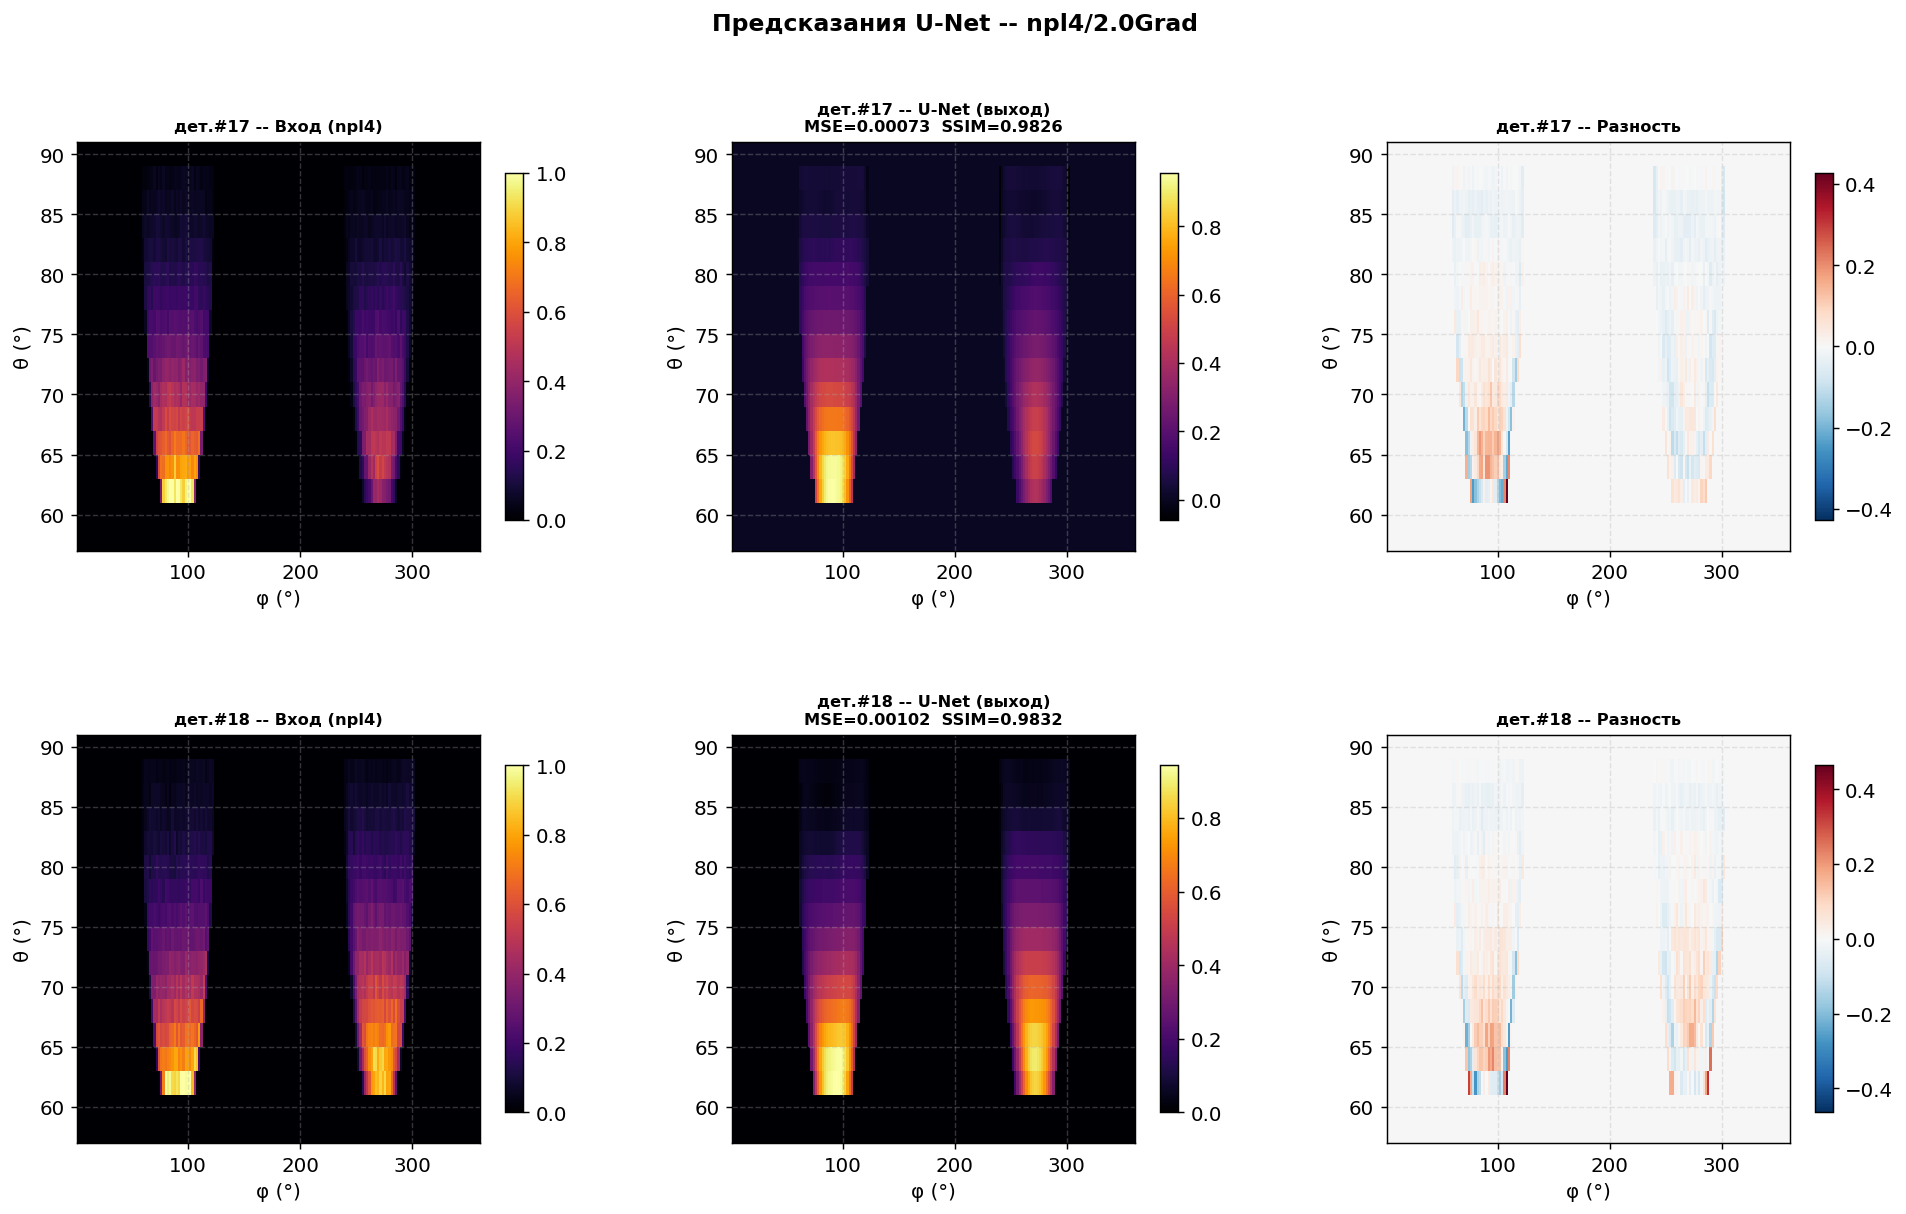
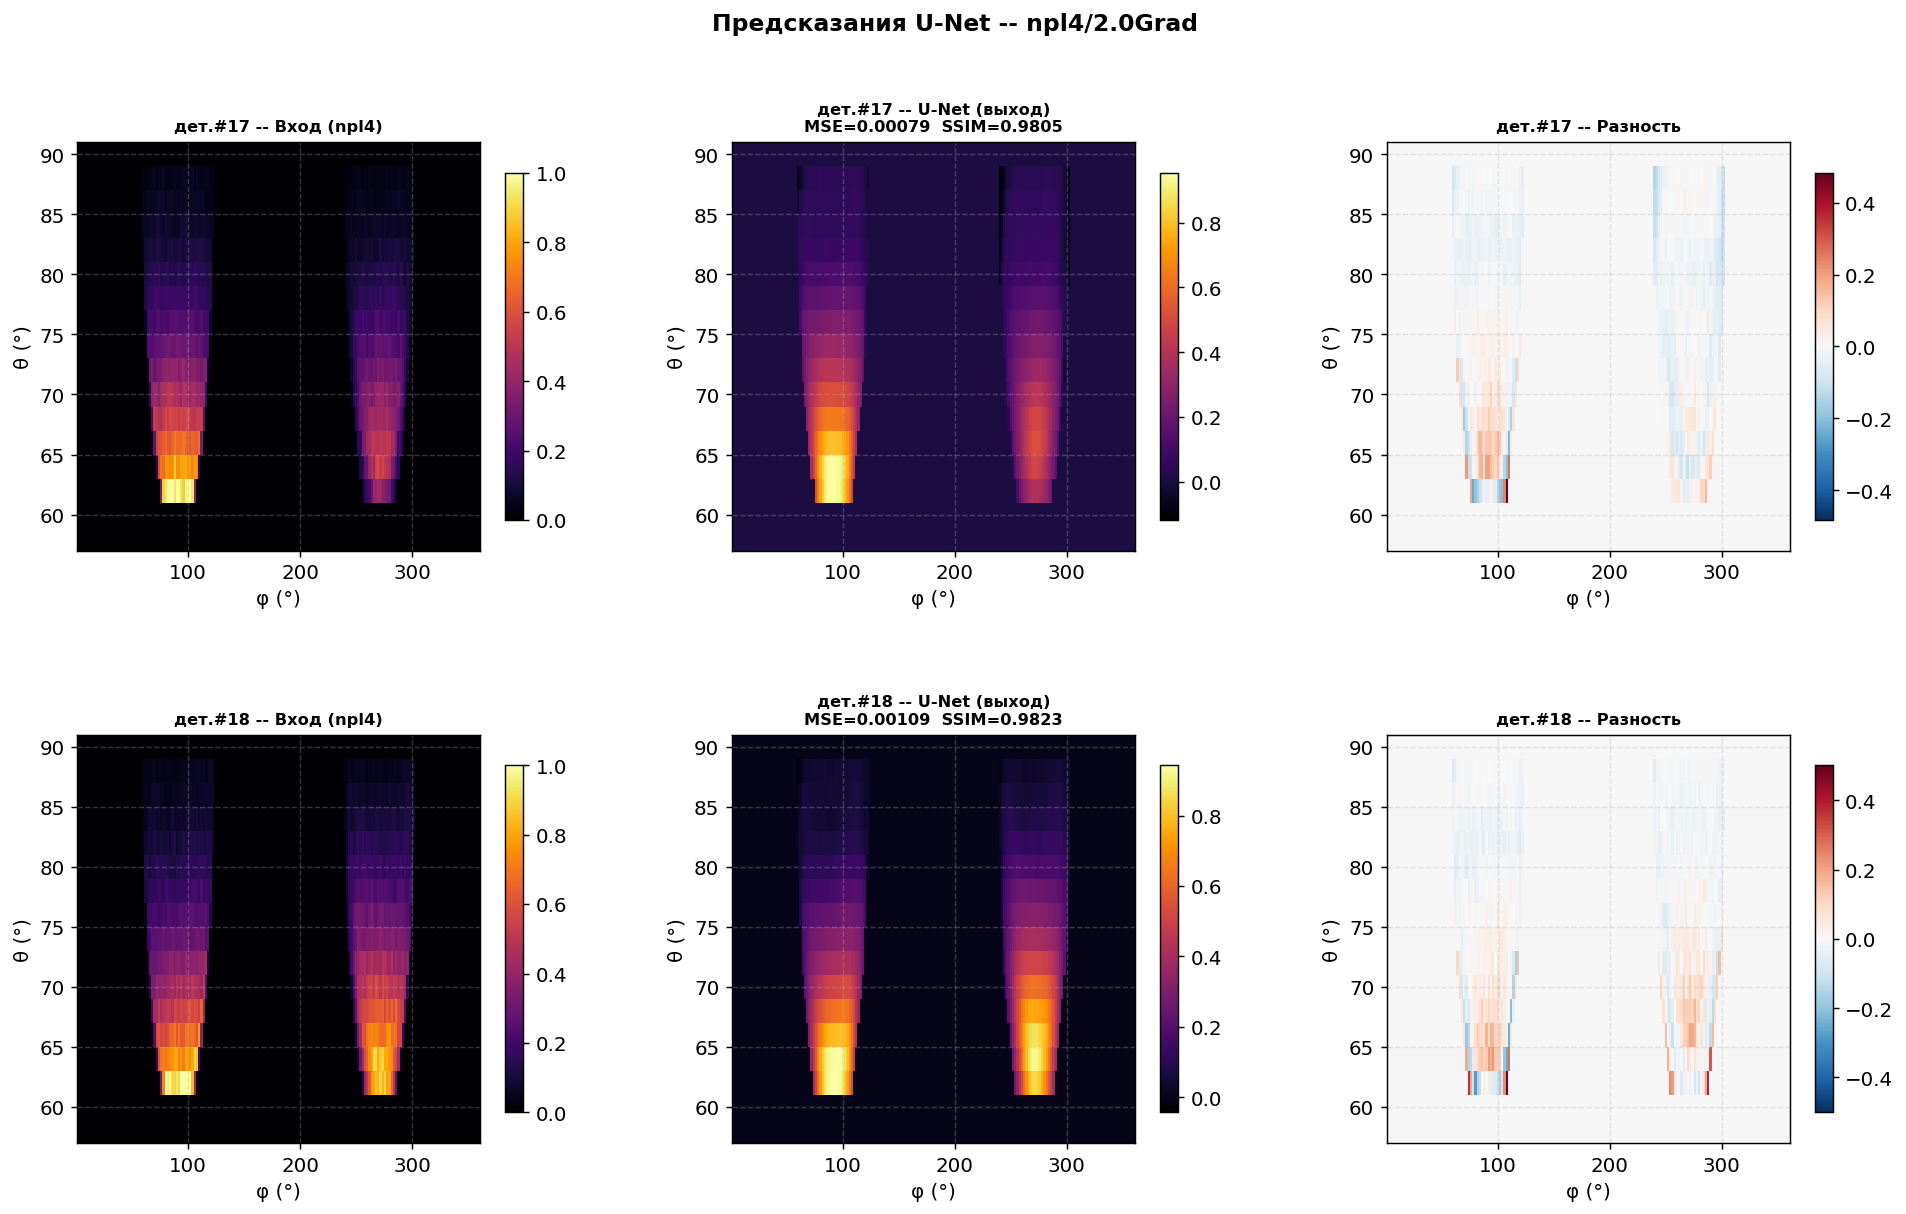
unettt

diff --git a/src/muon_unet.py b/src/muon_unet.py
@@ -536,7 +536,7 @@ def train(
     checkpoint_every: int  = 10,
     resume_from:      Path | None = None,
     use_ssim_loss:    bool = False,
-    ssim_alpha:       float = 0.2,
+    ssim_alpha:       float = 0.5,
 ) -> TrainHistory:
     """
     Полный цикл обучения с сохранением лучшей модели по val_loss.
@@ -557,7 +557,7 @@ def train(
     """
     if use_ssim_loss:
         criterion = CombinedLoss(alpha=ssim_alpha)
-        print(f"  Функция потерь: CombinedLoss (MSE + {ssim_alpha}*SSIM)")
+        print(f"  Функция потерь: CombinedLoss (MSE + {ssim_alpha}·SSIM)")
     else:
         criterion = WeightedMSELoss()
     optimizer = optim.Adam(model.parameters(), lr=lr, weight_decay=WEIGHT_DECAY)
@@ -1028,7 +1028,7 @@ def main(
 
 if __name__ == "__main__":
     main(
-        stage="all",
+        stage="eval",
         npl="npl4",
         binning="2.0Grad",
         pretrain_epochs=PRETRAIN_EPOCHS,

diff --git a/src/config.py b/src/config.py
@@ -145,7 +145,7 @@ SYNTH_NOISE_SCALE_RANGE: tuple[float, float] = (0.01, 0.04)
 # 0.25 = вариации ±25% от среднего
 SYNTH_AZIMUTH_VAR_AMP: float = 0.25
 
-# Параметры гауссовских аномалий
+# Параметры гауссовских  аномалий
 SYNTH_ANOMALY_AMP_RANGE:   tuple[float, float] = (0.05, 0.25)   # амплитуда (нормир.)
 SYNTH_ANOMALY_SIGMA_THETA: tuple[float, float] = (0.5, 1.5)     # ширина по θ (бинов)
 SYNTH_ANOMALY_SIGMA_PHI:   tuple[float, float] = (2.0, 6.0)     # ширина по φ (бинов)

diff --git a/src/muon_synth.py b/src/muon_synth.py
@@ -648,7 +648,7 @@ def main(
 
     # Графики
     if show_samples:
-        print("\n─── Примеры образцов " + "─" * 38)
+        print("\n─── Примеры образцов  " + "─" * 38)
         plot_samples(n=3, theta_bins=theta_bins, seed=0, save=True)
 
     if show_noise: